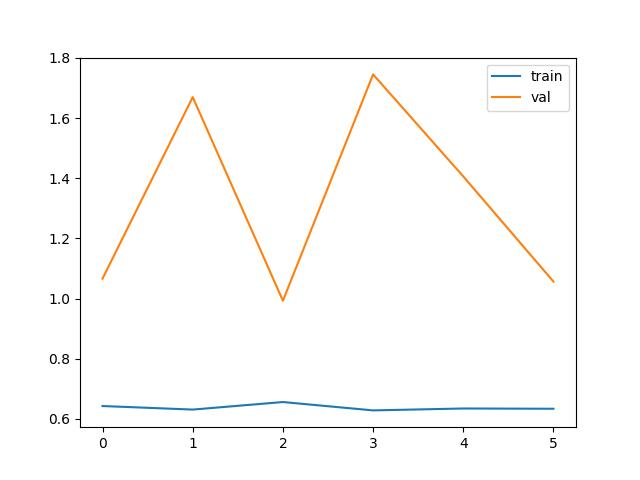
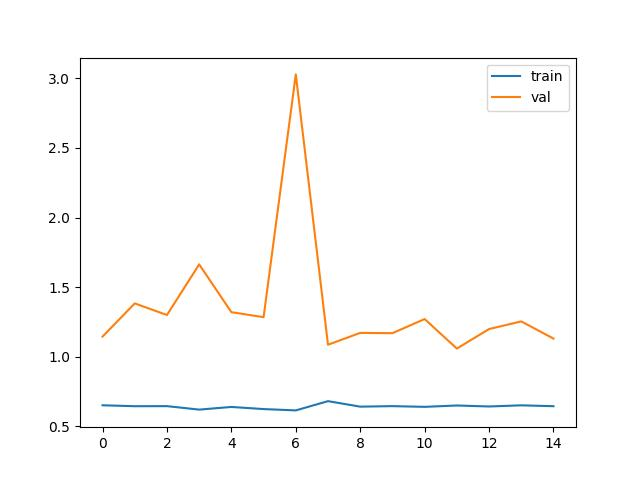
240314 suh

diff --git a/onj_3D_model/train.py b/onj_3D_model/train.py
@@ -18,6 +18,7 @@ from torch.nn import CrossEntropyLoss, BCEWithLogitsLoss
 from model import UNet3D
 import argparse
 import matplotlib.pyplot as plt
+from sklearn.metrics import roc_curve, auc
 
 np.random.seed(555)
 torch.manual_seed(555)
@@ -57,8 +58,8 @@ class CustomDataset(Dataset):
     def __init__(self, split):
         if split == 'train':
 
-            self.img = np.load(data_dir+f'/{split}_total_mini.npy', mmap_mode='r')
-            self.Y = np.load(data_dir+f'/{split}_label_mini.npy', mmap_mode='r')
+            self.img = np.load(data_dir+f'/{split}_total.npy', mmap_mode='r')
+            self.Y = np.load(data_dir+f'/{split}_label.npy', mmap_mode='r')
         elif split in ['test', 'val']:
             
             self.img = np.load(data_dir+f'/{split}_total.npy', mmap_mode='r')
@@ -80,37 +81,40 @@ class CustomDataset(Dataset):
         Y_idx = self.load_data(self.Y, idx)
         Y_idx = np.asarray(Y_idx).astype(np.float32)
         
-        img_tensor = torch.from_numpy(img_idx).float().to(device)
-        Y_tensor = torch.from_numpy(Y_idx).float().to(device)
+        # img_tensor = torch.from_numpy(img_idx).float().to(device)
+        # Y_tensor = torch.from_numpy(Y_idx).float().to(device)
     
-        return img_tensor, Y_tensor
+        return img_idx, Y_idx
 
     def load_data(self, mmap_array, idx):
         return mmap_array[idx]
 
 
-train_dataset = CustomDataset('train')
-val_dataset = CustomDataset('val')
-# test_dataset = CustomDataset('test')
-
-train_dataloader = DataLoader(train_dataset, batch_size = BATCH_SIZE, shuffle=True)
-val_dataloader = DataLoader(val_dataset, batch_size = BATCH_SIZE, shuffle=True)
-# test_dataloader = DataLoader(test_dataset, batch_size = len(test_dataset), shuffle=True) #For using FindBoundary, we have to set BATCH_SIZE as BATCH_SIZE
 
 
-model = UNet3D(in_channels=IN_CHANNELS, num_classes = 2).to(device)
-
-
+model = UNet3D(in_channels=IN_CHANNELS, num_classes = 1).to(device)
 
 if args.m == 1:
+    train_dataset = CustomDataset('train')
+    val_dataset = CustomDataset('val')
+    train_dataloader = DataLoader(train_dataset, batch_size = BATCH_SIZE, shuffle=True)
+    val_dataloader = DataLoader(val_dataset, batch_size = BATCH_SIZE, shuffle=True)
+
     dataloader = train_dataloader 
     model.train()
+    EPOCH = 30
 elif args.m == 2:
+    test_dataset = CustomDataset('test')
+    test_dataloader = DataLoader(test_dataset, batch_size = 1, shuffle=True) #For using FindBoundary, we have to set BATCH_SIZE as BATCH_SIZE
+
+
+
     dataloader = test_dataloader
     model = torch.load(save_dir+'/model.pth', map_location=device)
     model_state_dict = torch.load(save_dir+'/model_state_dict.pth')['model_state_dict']
     model.load_state_dict(model_state_dict)
     model.eval()
+    EPOCH = 1
 
 # criterion = CrossEntropyLoss(weight=torch.Tensor(BCE_WEIGHTS))
 criterion = BCEWithLogitsLoss()
@@ -123,13 +127,19 @@ total_val_loss = []
 best_loss = 1000
 
 # Training loop
-for epoch in range(30):
+
+for epoch in range(EPOCH):
     print('epoch: ', epoch)
+    y_list = []
+    pred_list = []
     
     with tqdm(dataloader, unit='batch') as tepoch:
         batch_loss = 0
         for idx, (img, y) in enumerate(tepoch):
             optimizer.zero_grad()
+
+            img = img.to(device)
+            y = y.to(device)
             
             # img = (BS, 70, 512, 512)
             batch_size = img.shape[0]
@@ -137,35 +147,22 @@ for epoch in range(30):
             y = y.unsqueeze(1)
             
             
-            pred = model(img)
+            pred, seg = model(img)
+            print(seg.shape)
+            quit()
 
             loss = criterion(pred, y)
             tepoch.set_postfix(loss=loss.item())
             loss.backward()
             optimizer.step()
 
+            if args.m == 2:
+                y_list = np.append(y_list, y.cpu().detach().numpy())
+                pred_list = np.append(pred_list, pred.cpu().detach().numpy())
+
             batch_loss += loss.item() / batch_size
 
-            if args.m == 2:
-                
-                fig, axes = plt.subplots(1, 1, figsize=(12, 12))
-                axes = axes.ravel()
 
-                fpr, tpr, thresholds = roc_curve(y, pred)
-                roc_auc = auc(fpr, tpr)
-                    
-                axes[0].plot(fpr, tpr, label='ROC curve (area = %0.2f)' % roc_auc)
-                axes[0].plot([0, 1], [0, 1], 'k--')
-                axes[0].set_xlim([0.0, 1.0])
-                axes[0].set_ylim([0.0, 1.05])
-                axes[0].set_xlabel('False Positive Rate')
-                axes[0].set_ylabel('True Positive Rate')
-                axes[0].set_title(f'ROC Curve for ONJ classification')
-                axes[0].legend(loc='lower right')
-                
-                plt.tight_layout()
-                plt.savefig(save_dir+f'/test.jpg')
-                plt.close()
 
         batch_loss /= idx
         total_loss = np.append(total_loss, batch_loss)
@@ -188,7 +185,7 @@ for epoch in range(30):
                 val_pred = model(val_img)
                 val_loss = criterion(val_pred, val_y)
                 val_batch_loss += val_loss.item() / val_batch_size
-                
+
             val_batch_loss /= val_idx
 
             total_val_loss = np.append(total_val_loss, val_batch_loss)
@@ -208,19 +205,39 @@ for epoch in range(30):
                 pass
         
             
-    print('train loss: ', batch_loss, 'val loss: ', val_batch_loss)
+        print('train loss: ', batch_loss, 'val loss: ', val_batch_loss)
+            
+
+        total_loss = np.array(total_loss)
+        total_val_loss = np.array(total_val_loss)
+
+        plt.plot(total_loss, label='train')
+        plt.plot(total_val_loss, label='val')
+        plt.legend()
+        plt.savefig(save_dir+'/train_loss.jpg')
+        plt.close()
+
+
+if args.m == 2:
+    print(y_list.shape, pred_list.shape)
+    fig = plt.figure()
+    ax = fig.add_subplot(1,1,1)
+
+    fpr, tpr, thresholds = roc_curve(y_list, pred_list)
+    roc_auc = auc(fpr, tpr)
         
-
-    total_loss = np.array(total_loss)
-    total_val_loss = np.array(total_val_loss)
-
-    plt.plot(total_loss, label='train')
-    plt.plot(total_val_loss, label='val')
-    plt.legend()
-    plt.savefig(save_dir+'/train_loss.jpg')
+    ax.plot(fpr, tpr, label='ROC curve (area = %0.2f)' % roc_auc)
+    ax.plot([0, 1], [0, 1], 'k--')
+    ax.set_xlim([0.0, 1.0])
+    ax.set_ylim([0.0, 1.05])
+    ax.set_xlabel('False Positive Rate')
+    ax.set_ylabel('True Positive Rate')
+    ax.set_title(f'ROC Curve for ONJ classification')
+    ax.legend(loc='lower right')
+    
+    plt.tight_layout()
+    plt.savefig(save_dir+f'/test.jpg')
     plt.close()
-
-
 
 
 

diff --git a/onj_3D_model/model.py b/onj_3D_model/model.py
@@ -64,6 +64,8 @@ class UpConv3DBlock(nn.Module):
 
     def __init__(self, in_channels, res_channels=0, last_layer=False, num_classes=None) -> None:
         super(UpConv3DBlock, self).__init__()
+
+
         assert (last_layer==False and num_classes==None) or (last_layer==True and num_classes!=None), 'Invalid arguments'
         self.upconv1 = nn.ConvTranspose3d(in_channels=in_channels, out_channels=in_channels, kernel_size=(2, 2, 2), stride=2)
         self.relu = nn.ReLU()
@@ -111,6 +113,8 @@ class UNet3D(nn.Module):
         self.s_block2 = UpConv3DBlock(in_channels=level_3_chnls, res_channels=level_2_chnls)
         self.s_block1 = UpConv3DBlock(in_channels=level_2_chnls, res_channels=level_1_chnls, num_classes=num_classes, last_layer=True)
 
+        self.final_conv = nn.Conv3d(64, num_classes, kernel_size=1)
+
         self.global_avg_pool = nn.AdaptiveAvgPool3d(1)
 
         self.linear = nn.Sequential(
@@ -129,15 +133,16 @@ class UNet3D(nn.Module):
 
         # print(out.shape) #(1, 512, 8, 64, 64)
         
-        out = self.global_avg_pool(out)
-        out = torch.flatten(out, 1)
-        out = self.linear(out)
+        ### For classification output
+        out_cls = self.global_avg_pool(out)
+        out_cls = torch.flatten(out_cls, 1)
+        out_cls = self.linear(out_cls)
 
         #Synthesis path forward feed
-        # out = self.s_block3(out, residual_level3)
-        # out = self.s_block2(out, residual_level2)
-        # out = self.s_block1(out, residual_level1)
-        return out
+        out_seg = self.s_block3(out, residual_level3)
+        out_seg = self.s_block2(out_seg, residual_level2)
+        out_seg = self.s_block1(out_seg, residual_level1)
+        return out_cls, out_seg
 
 
 

diff --git a/onj_3D_model/data_prep.py b/onj_3D_model/data_prep.py
@@ -79,7 +79,8 @@ class ExtractSliced(MapTransform):
     def __call__(self, data: dict) -> dict:
         label_path = data["label"]
 
-        if label_path == "" or "Non_ONJ" in data["name"].parent.parent.parent.parent.name:
+        if label_path == "" or "Non_ONJ" in data["name"].parent.parent.parent.parent.name or \
+        os.path.exists(label_path)==False:
             return data
 
 
@@ -248,7 +249,7 @@ def main(cfg:DictConfig):
 
             print('original size: ', img_3d.shape, ONJ_class)
             ## image preprocessing
-            depth_ratio = 70 / img_3d.shape[0] #desired depth = 70 (empirically chosen)
+            depth_ratio = 64 / img_3d.shape[0] #desired depth = 70 (empirically chosen)
             wh_ratio1 = 512 / img_3d.shape[1] #desired depth = 512 (empirically chosen)
             wh_ratio2 = 512 / img_3d.shape[2]
 
